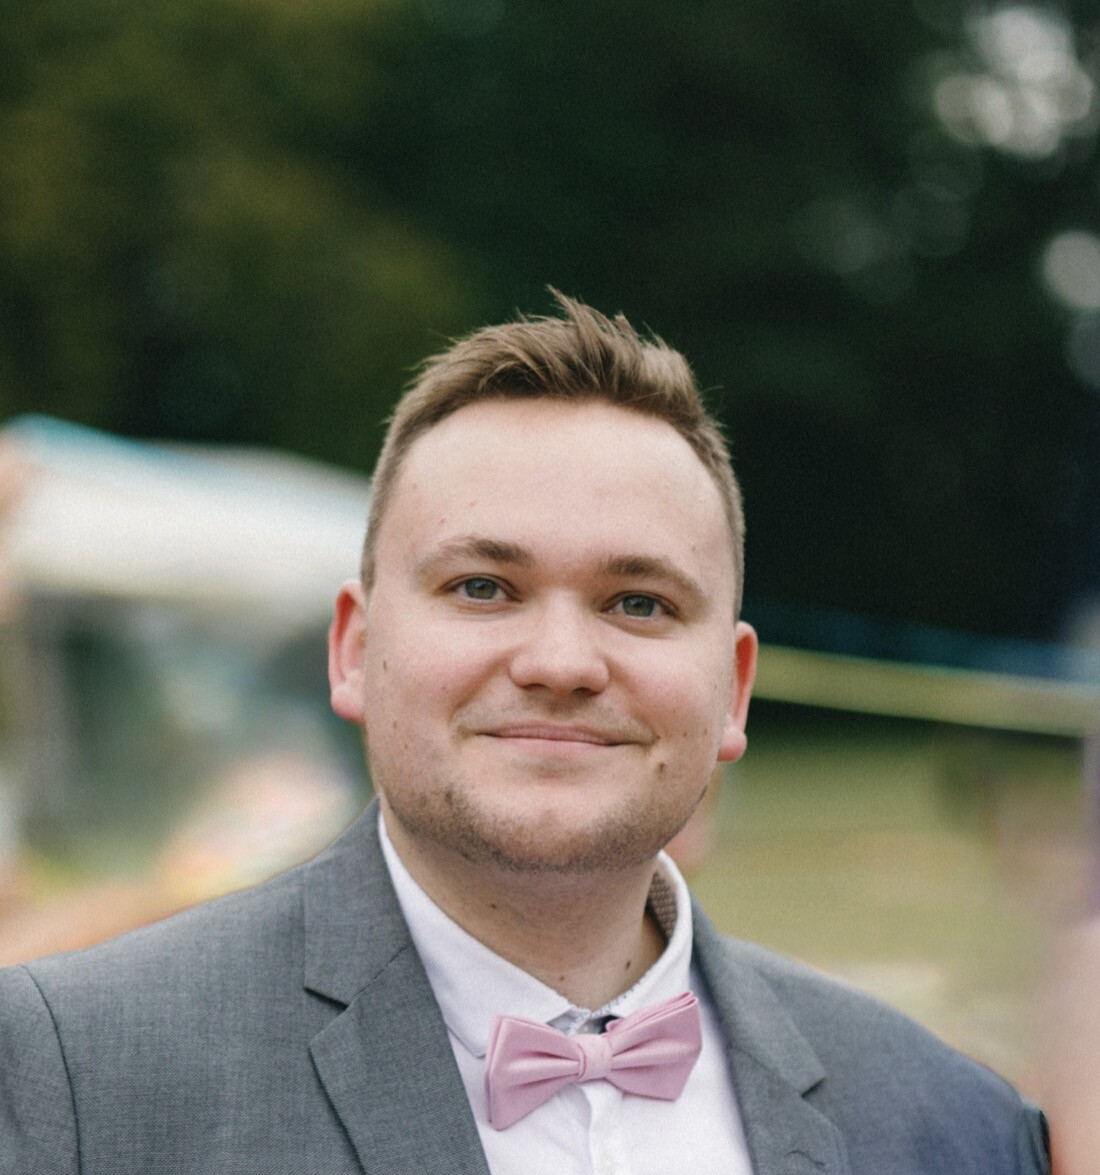
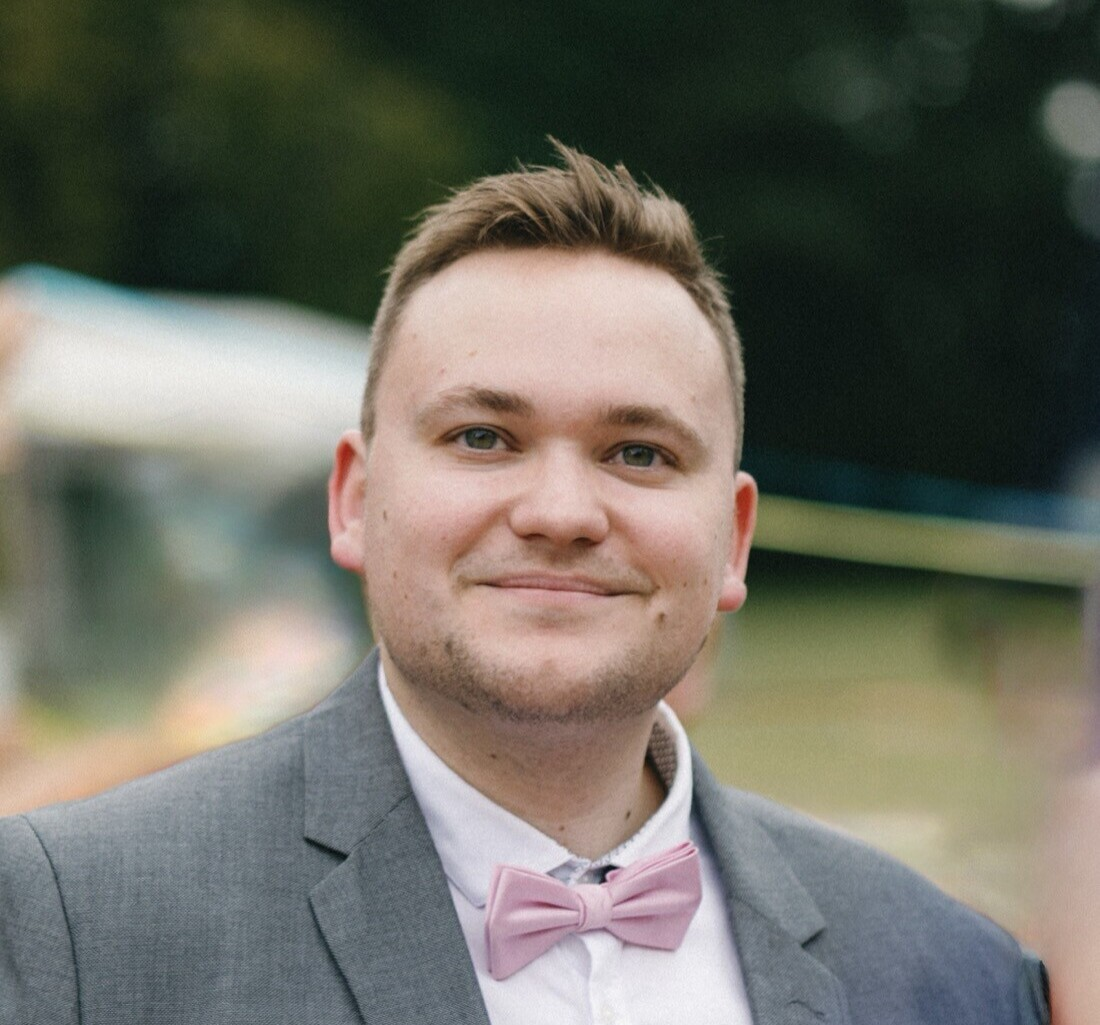
fix(hero): recadre le portrait (visage recentré, sans le verre)

diff --git a/components/sections/Hero.tsx b/components/sections/Hero.tsx
@@ -81,7 +81,7 @@ export function Hero({ content }: { content: CvContent }) {
               src="/portrait-arnaud.jpg"
               alt="Arnaud Dufour en costume et nœud papillon, portrait en clair-obscur sur fond sombre"
               width={1100}
-              height={1175}
+              height={1025}
               sizes="(max-width: 768px) 90vw, 40vw"
               priority
               className="h-auto w-full"
